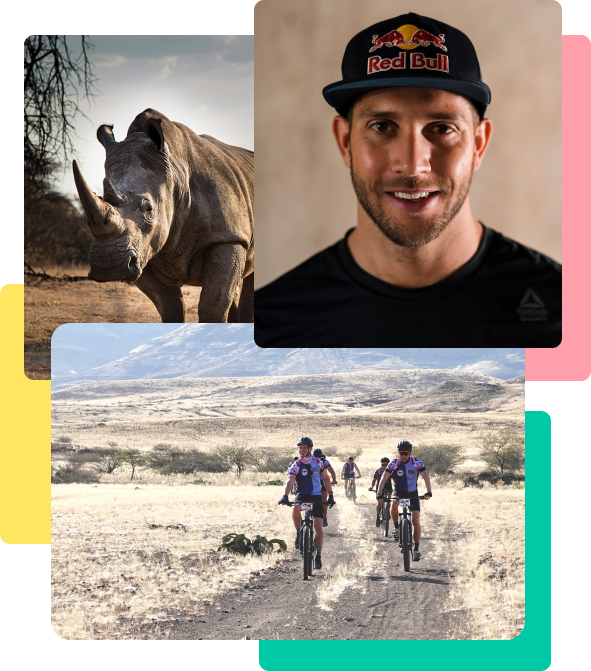
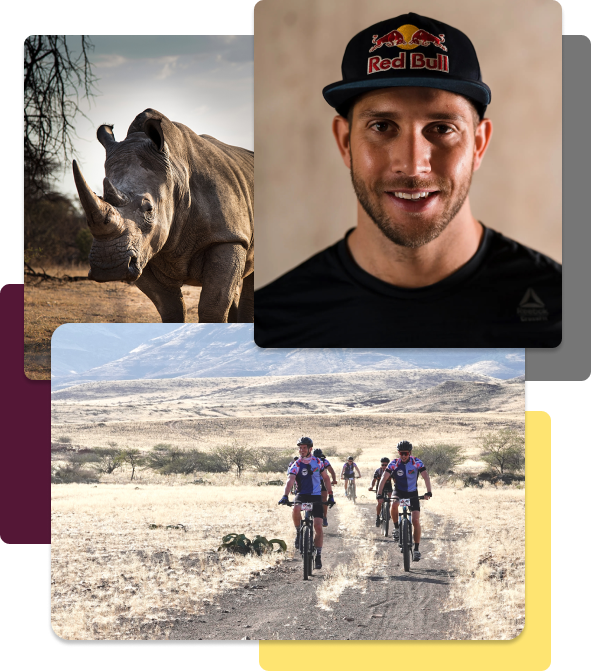
design improvements, wenth thourgh with Guido and changed all spacing and colors

Changed region(s): [[0.0914, 0.5961, 0.9442, 1.0], [0.4264, 0.0298, 1.0, 0.5663], [0.0, 0.4173, 0.0914, 0.8346]]

diff --git a/src/components/Button.module.css b/src/components/Button.module.css
@@ -6,12 +6,11 @@
   outline: inherit;
   color: #541736;
   background-color: #ffe660;
-  padding: 12px 30px;
+  padding: var(--base-font-size) calc(var(--base-font-size) * 2);
   border-radius: 10px;
-  font-family: 'Satoshi-Black';
-  font-weight: 900;
-  font-size: 24px;
-  line-height: 32px;
+  font-family: 'Satoshi-Bold';
+  font-weight: 700;
+  font-size: var(--base-font-size);
 }
 @media only screen and (max-width: 970px) {
   .button {

diff --git a/src/components/SignUpButton.tsx b/src/components/SignUpButton.tsx
@@ -6,7 +6,7 @@ function SignUpButton() {
       onClick={() => {
         console.log('Button Clicked');
       }}
-      title="SIGN UP NOW"
+      title="Sign Up Now"
     />
   );
 }
